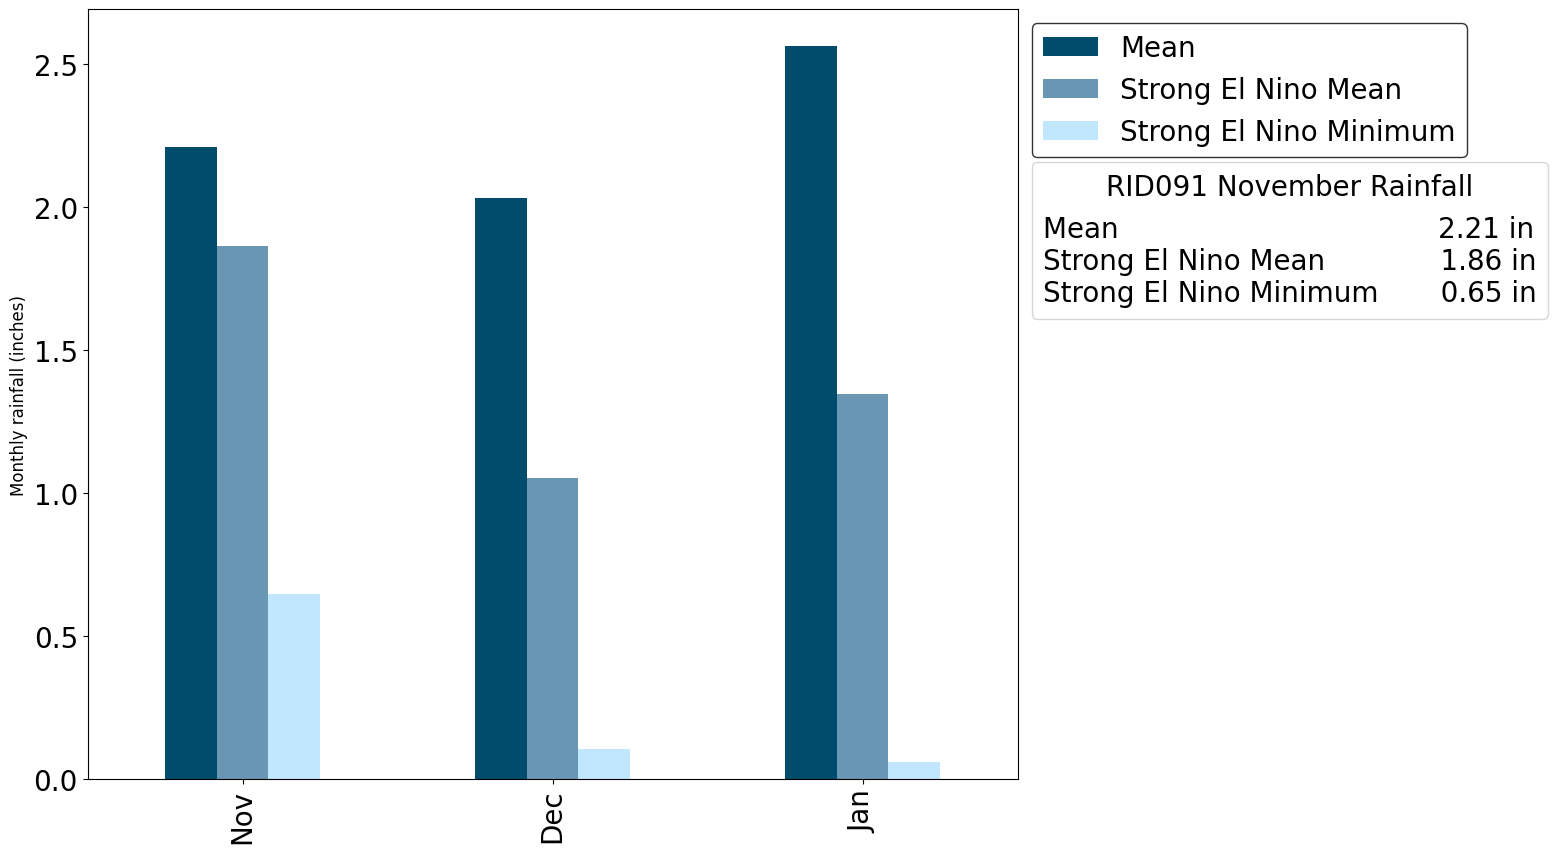
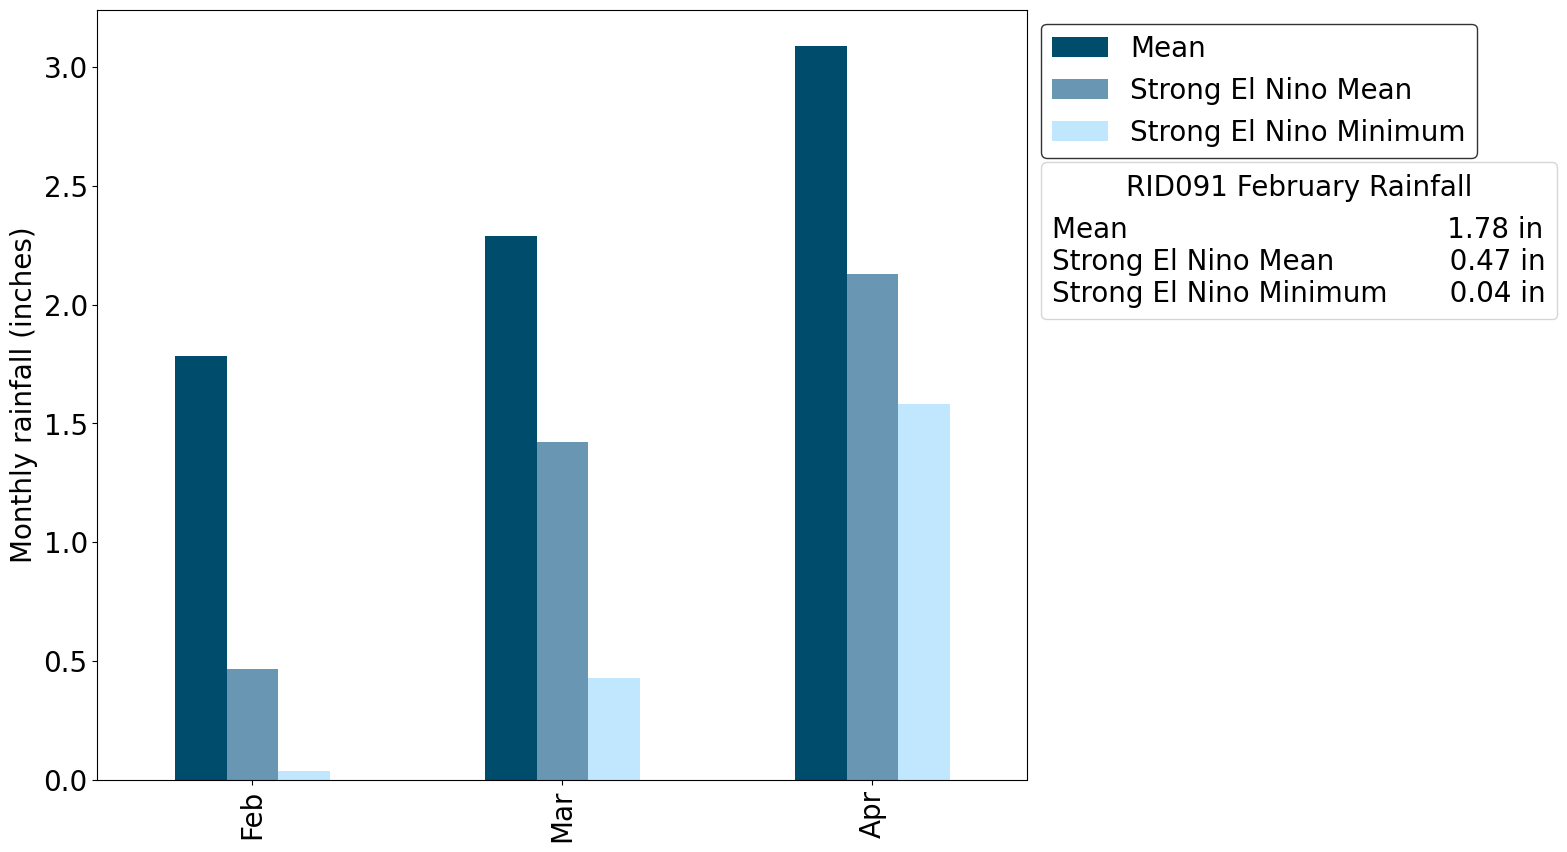
RF outlook updates

diff --git a/Python/rainfall_outlook.py b/Python/rainfall_outlook.py
@@ -79,11 +79,13 @@ def filter(rf_df,mode):
             print("Error")
         return ENSO, title
 
-for r in np.arange(1,count):
+for r in np.arange(1,count+1):
     #table=pd.read_csv(f"/Users/cherryleheu/Codes/NIDIS-Codes/H-RIP/RID/RID{r:03d}/RID{r:03d}_query.csv",index_col=0)
     table=pd.read_csv(f"../RID/RID{r:03d}/RID{r:03d}_query.csv",index_col=0)
     rf_df=pd.DataFrame({'A' : []})
-    
+    now = datetime.now()
+    thisMonth = (now).strftime("%B")
+
     if a == 11 or a == 12:
         #creates a table that is from March to Feb
         rf_df=table.append(table.loc[:9])
@@ -97,35 +99,36 @@ for r in np.arange(1,count):
     ENSO = filter(rf_df,mode)[0]
     title=filter(rf_df,mode)[1]
     ENSO['MonthName']= ENSO['Month'].astype(np.uint8).apply(lambda x: calendar.month_abbr[x])
-    
+
     #all mean
     mean=ENSO['MRF'].iloc[0]
     #phase mean
     p_mean = ENSO['MeRF'].iloc[0]
     #phase min
     p_min = ENSO['MnRF'].iloc[0]
-    
 
-    # Create a figure and axis with a larger width
-    fig, ax = plt.subplots(figsize=(10, 6))
+    #probability
+    #mean_prob = int(ENSO['A_ProbMe'][0]*100)
+    #p_mean_prob = int(ENSO['E_ProbMe'][0]*100)
+    #p_min_prob = int(ENSO['E_ProbMn'][0]*100)
 
-    # Plot the data
-    line1 = ENSO.plot(ax=ax, x='MonthName', y=['MRF', 'MeRF', 'MnRF'], kind="bar", legend=False, color=['#004c6d', '#6996b3', '#c1e7ff'])
+    fig, ax = plt.subplots(figsize=(12,10))
+    line1 = ENSO.plot(ax=ax,x='MonthName',y=['MRF','MeRF','MnRF'],kind="bar",legend=False,color=['#004c6d','#6996b3','#c1e7ff'])
 
-    # Create a legend for the first line.
-    first_legend = ax.legend(['Mean', '%s Mean'% title, '%s Minimum' % title], fontsize=12, bbox_to_anchor=(1, 1), edgecolor="black",loc="upper left")
+    ax.set_ylabel("Monthly rainfall (inches)",fontsize=20)
+    plt.tick_params(axis='x', labelsize=20)
+    plt.tick_params(axis='y', labelsize=20)
+    first_legend = ax.legend(['Mean', '%s Mean' % title, '%s Minimum'% title],fontsize=20,bbox_to_anchor=(1,1),edgecolor="black", loc='upper left')
 
-    # Set labels and title
-    ax.set_xlabel('')
-    ax.set_ylabel('Rainfall (in)')
 
-    text = f"{thisMonth}\nMean                                     {mean:.2f} in\n{title} Mean             {p_mean:.2f} in\n{title} Minimum       {p_min:.2f} in"
-    plt.text(0.73, 0.72, text, fontsize=10, transform=plt.gcf().transFigure,
-            bbox={'facecolor': 'white', 'alpha': 0.5})
-
-    # Use tight_layout to ensure the plot is fully visible
-    plt.tight_layout()
-    plt.savefig(f"../RID/RID{r:03d}/RID{r:03d}_rainfall.png",bbox_inches="tight")
+    second_legend = ax.legend([f"Mean                                    {mean:.2f} in\n{title} Mean             {p_mean:.2f} in\n{title} Minimum       {p_min:.2f} in"], loc='center left', 
+                            handlelength=0, handletextpad=0,bbox_to_anchor=(1, 0.7), title=f'RID{r:03d} {thisMonth} Rainfall',fontsize=20)
+    second_legend.get_title().set_fontsize('20') 
+    ax.add_artist(first_legend)
+        
+    #ax.add_artist(second_legend)
+    ax.set(xlabel=None)
+    #plt.savefig(f"../RID/RID{r:03d}/RID{r:03d}_rainfall.png",bbox_inches="tight")
     plt.show()
     
 
